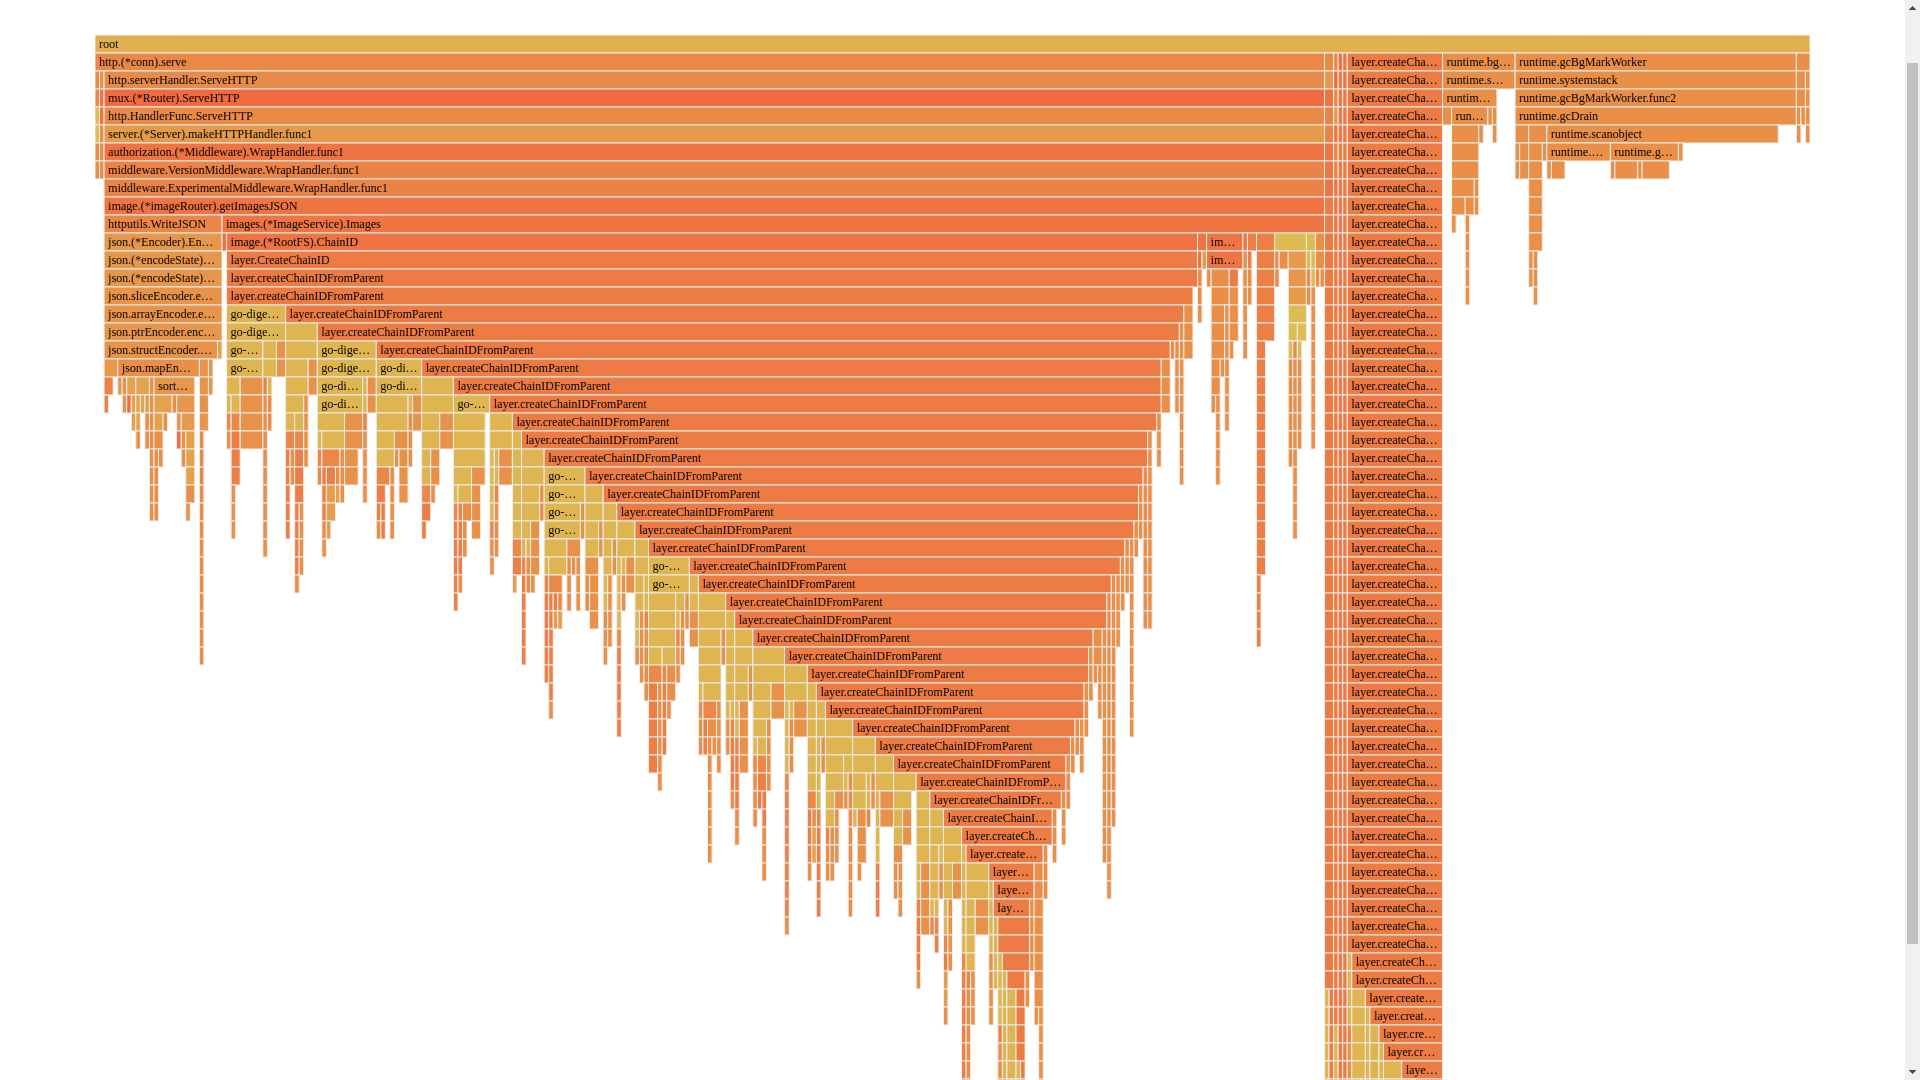
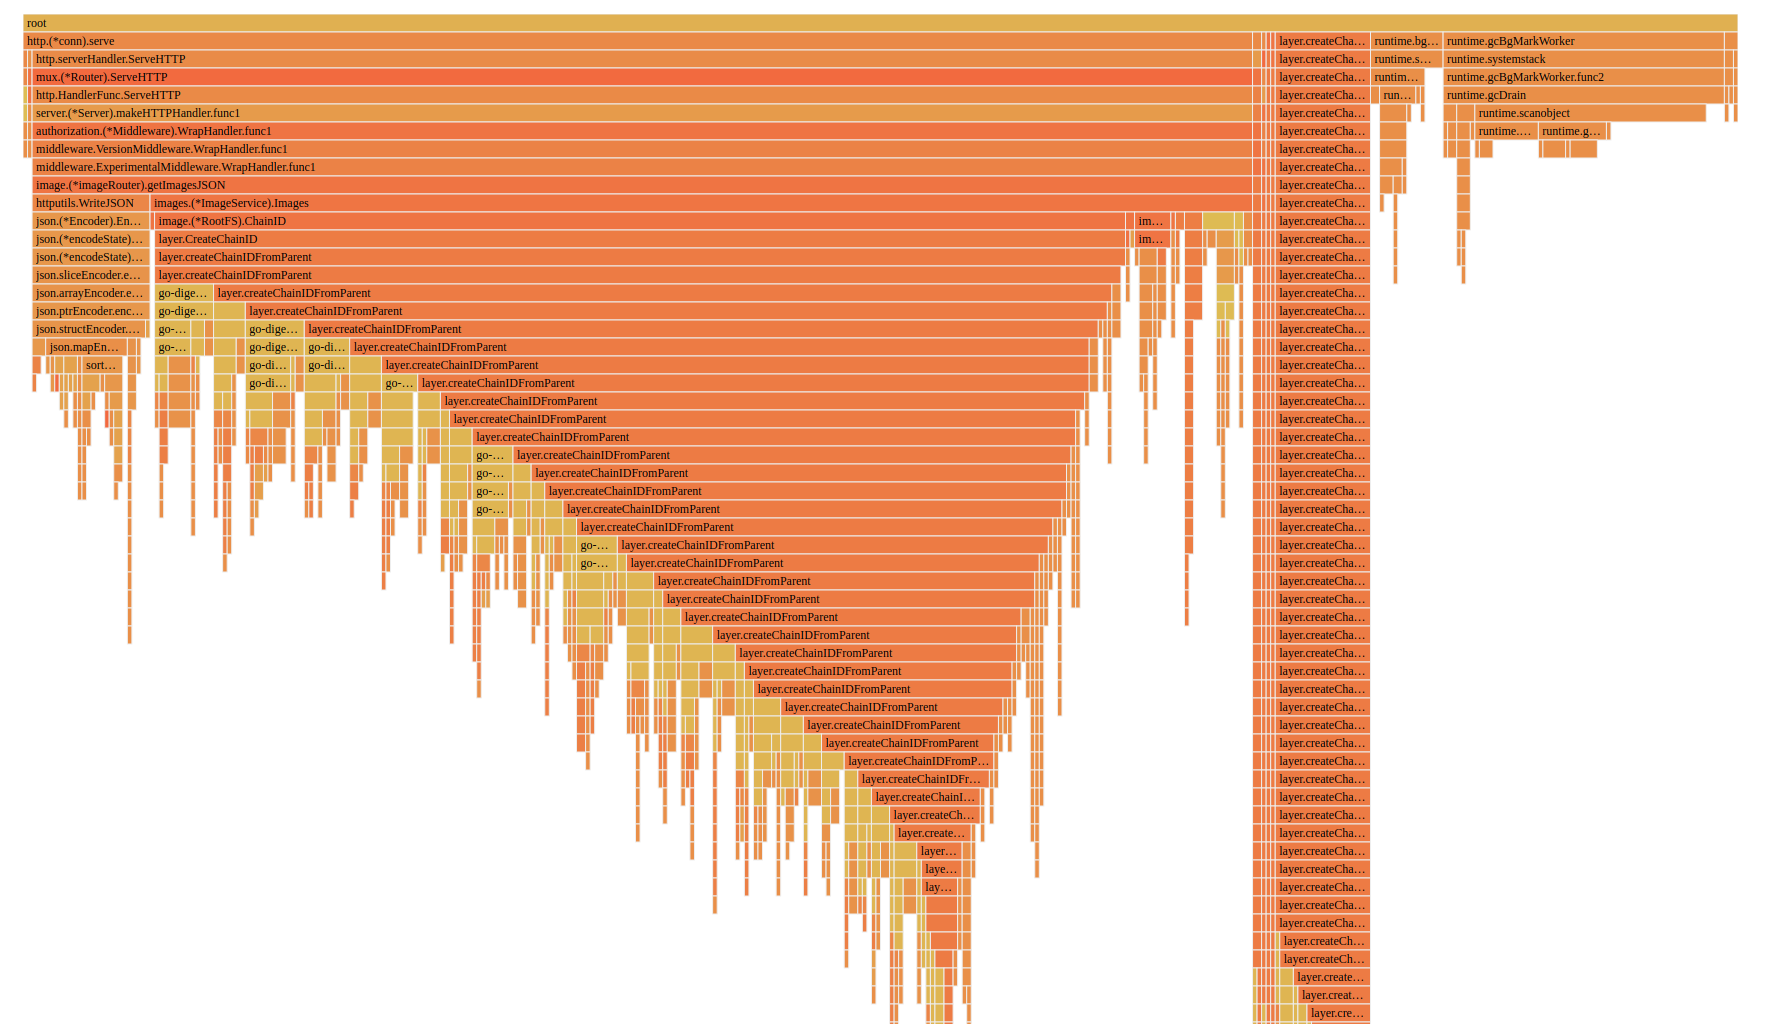
update docker optimization

diff --git a/posts/docker-perf-optimization/index.html b/posts/docker-perf-optimization/index.html
@@ -58,7 +58,23 @@ Linux *.x86_64 (*) 	*/*/2020 	_x86_64_	(* CPU)
 而计算<code>chain id</code>主要是为了给<code>getImagesJSON()</code>接口返回镜像基本信息，
 镜像今本信息还有一部分是以<code>json</code>形式存储在磁盘上的，dockerd 在读取这些 json 信息的同时还对它作了<code>sha256</code>哈希校验，
 所以这部分操作在作<code>json</code>解码操作的同时也耗费了一部分 CPU 在<code>sha256</code>哈希值的计算上。</p>
-<p>如何优化？首先 docker 镜像的基础信息在 dockerd 首次加载镜像时已经包含了<code>getImagesJSON()</code>接口需要返回的大部分信息，
+<p><img src="/images/docker-flame.png" alt="docker flame"></p>
+<p><code>getImagesJSON()</code>是谁调用的呢？通过<code>ss</code>查看读写<code>docker.sock</code>的进程，我们看到主要的嫌疑在<code>kubelet</code>上。
+查看<code>kubelet</code>我们发现至少有两处地方在定时轮询 docker 的<code>getImagesJSON()</code>接口。
+一处在<code>kubelet</code>定时更新节点状态的代码中，频率默认为 10s，由<code>--node-status-update-frequency</code>参数控制</p>
+<div class="highlight"><pre style="color:#f8f8f2;background-color:#272822;-moz-tab-size:4;-o-tab-size:4;tab-size:4"><code class="language-go" data-lang="go"><span style="color:#a6e22e">kubelet</span><span style="color:#f92672">/</span><span style="color:#a6e22e">kubelet</span>.<span style="color:#66d9ef">go</span>:<span style="color:#a6e22e">Run</span>(): <span style="color:#e6db74">`go wait.Until(kl.syncNodeStatus, kl.nodeStatusUpdateFrequency, wait.NeverStop)`</span>
+</code></pre></div><p>另一处在<code>kubelet</code>的镜像 GC 代码中，频率是写死的每 30s 一次：</p>
+<div class="highlight"><pre style="color:#f8f8f2;background-color:#272822;-moz-tab-size:4;-o-tab-size:4;tab-size:4"><code class="language-go" data-lang="go"><span style="color:#a6e22e">pkg</span><span style="color:#f92672">/</span><span style="color:#a6e22e">kubelet</span><span style="color:#f92672">/</span><span style="color:#a6e22e">images</span><span style="color:#f92672">/</span><span style="color:#a6e22e">image_gc_manager</span>.<span style="color:#66d9ef">go</span>:<span style="color:#a6e22e">realImageGCManager</span>.<span style="color:#a6e22e">Start</span>()
+
+<span style="color:#66d9ef">go</span> <span style="color:#a6e22e">wait</span>.<span style="color:#a6e22e">Until</span>(<span style="color:#66d9ef">func</span>() {
+	<span style="color:#a6e22e">images</span>, <span style="color:#a6e22e">err</span> <span style="color:#f92672">:=</span> <span style="color:#a6e22e">im</span>.<span style="color:#a6e22e">runtime</span>.<span style="color:#a6e22e">ListImages</span>()
+	<span style="color:#66d9ef">if</span> <span style="color:#a6e22e">err</span> <span style="color:#f92672">!=</span> <span style="color:#66d9ef">nil</span> {
+		<span style="color:#a6e22e">klog</span>.<span style="color:#a6e22e">Warningf</span>(<span style="color:#e6db74">&#34;[imageGCManager] Failed to update image list: %v&#34;</span>, <span style="color:#a6e22e">err</span>)
+	} <span style="color:#66d9ef">else</span> {
+		<span style="color:#a6e22e">im</span>.<span style="color:#a6e22e">imageCache</span>.<span style="color:#a6e22e">set</span>(<span style="color:#a6e22e">images</span>)
+	}
+}, <span style="color:#ae81ff">30</span><span style="color:#f92672">*</span><span style="color:#a6e22e">time</span>.<span style="color:#a6e22e">Second</span>, <span style="color:#a6e22e">wait</span>.<span style="color:#a6e22e">NeverStop</span>)
+</code></pre></div><p>如何优化？首先 docker 镜像的基础信息在 dockerd 首次加载镜像时已经包含了<code>getImagesJSON()</code>接口需要返回的大部分信息，
 我们只需要把这部分信息缓存下来就行，后续 dockerd 对镜像进行增删改的时候我们相应的更新缓存中的信息就行了。
 除此之外还有一个 CPU 消耗非常的的就是 docker 镜像层<code>chain id</code>的计算，真对这一问题我们同样可以用缓存来解决，
 dockerd 镜像在加载的时候会从镜像层存储组件中查询镜像层的数据数据结构，这个数据结构中就包含这镜像层的<code>chain id</code>信息，

diff --git a/content/posts/docker-perf-optimization.md b/content/posts/docker-perf-optimization.md
@@ -50,6 +50,31 @@ $ perf top -p 4265
 镜像今本信息还有一部分是以`json`形式存储在磁盘上的，dockerd 在读取这些 json 信息的同时还对它作了`sha256`哈希校验，
 所以这部分操作在作`json`解码操作的同时也耗费了一部分 CPU 在`sha256`哈希值的计算上。
 
+![docker flame](/images/docker-flame.png)
+
+`getImagesJSON()`是谁调用的呢？通过`ss`查看读写`docker.sock`的进程，我们看到主要的嫌疑在`kubelet`上。
+查看`kubelet`我们发现至少有两处地方在定时轮询 docker 的`getImagesJSON()`接口。
+一处在`kubelet`定时更新节点状态的代码中，频率默认为 10s，由`--node-status-update-frequency`参数控制
+
+```go
+kubelet/kubelet.go:Run(): `go wait.Until(kl.syncNodeStatus, kl.nodeStatusUpdateFrequency, wait.NeverStop)`
+```
+
+另一处在`kubelet`的镜像 GC 代码中，频率是写死的每 30s 一次：
+
+```go
+pkg/kubelet/images/image_gc_manager.go:realImageGCManager.Start()
+
+go wait.Until(func() {
+	images, err := im.runtime.ListImages()
+	if err != nil {
+		klog.Warningf("[imageGCManager] Failed to update image list: %v", err)
+	} else {
+		im.imageCache.set(images)
+	}
+}, 30*time.Second, wait.NeverStop)
+```
+
 如何优化？首先 docker 镜像的基础信息在 dockerd 首次加载镜像时已经包含了`getImagesJSON()`接口需要返回的大部分信息，
 我们只需要把这部分信息缓存下来就行，后续 dockerd 对镜像进行增删改的时候我们相应的更新缓存中的信息就行了。
 除此之外还有一个 CPU 消耗非常的的就是 docker 镜像层`chain id`的计算，真对这一问题我们同样可以用缓存来解决，
